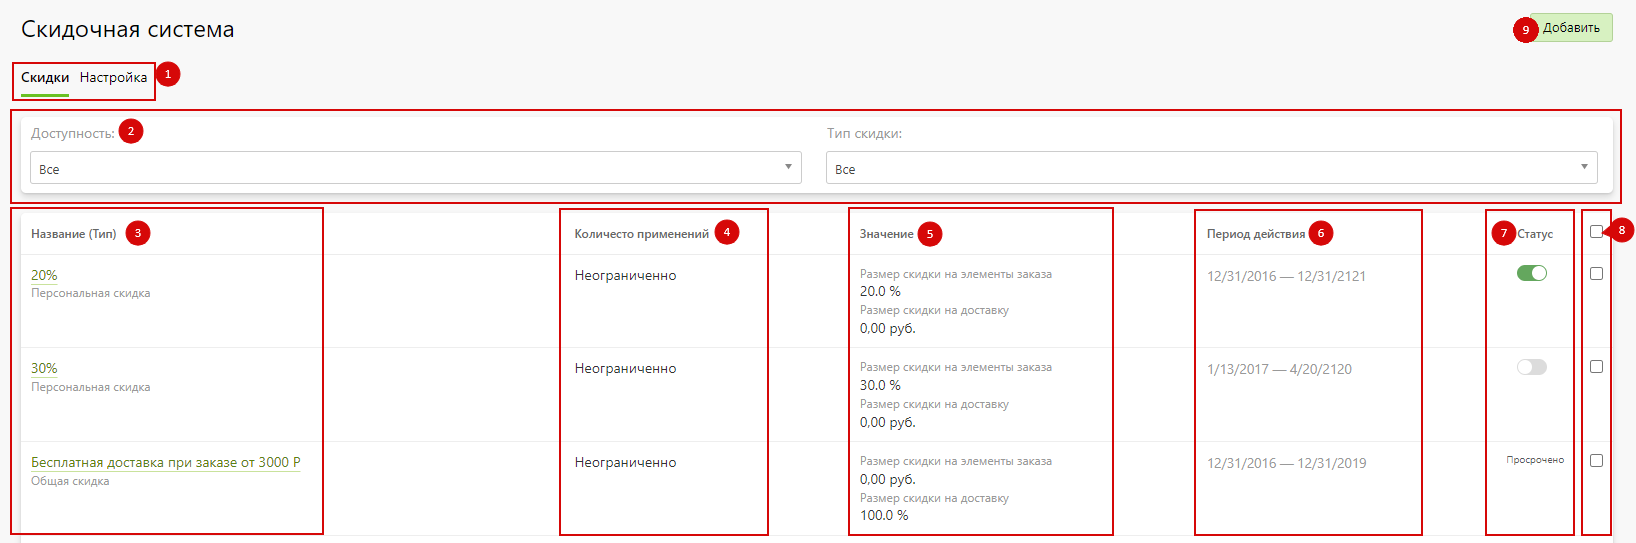
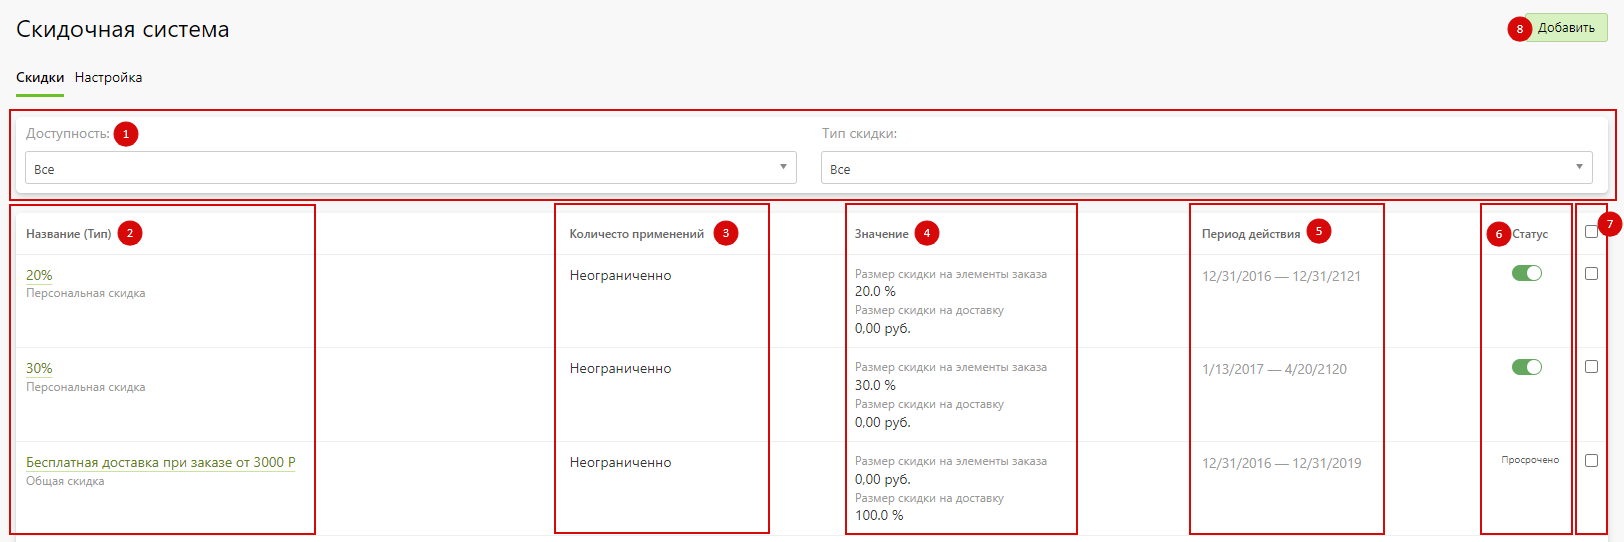
Скидки, убрал Навигацию

diff --git a/docs/marketing/discounts.md b/docs/marketing/discounts.md
@@ -1,41 +1,39 @@
 # Скидки
 ## Список скидок
 ![](../_media/marketing/marketing01.png ':size=70%')
-1. **Навигация**
-2. **Фильтр** - возможность фильтровать отображение скидок по Доступности (вкл/выкл) и по Типу скидки.
-3. **Название (Тип)**:
+1. **Фильтр** - возможность фильтровать отображение скидок по Доступности (вкл/выкл) и по Типу скидки.
+2. **Название (Тип)**:
     + **Общая скидка** - общая скидка применяется ко всем пользователям, если их заказ удовлетворяет условиям скидки.
     + **Скидка по купонам** - в карточке скидки создаются купоны, которые пользователи сайта могут использовать на странице Корзины для применения скидки.
     + **Персональная скидка** - есть возможность указать клиентов, для кого допустима данная скидка, а так же условия автоматического добавления клиентов.
-4. **Количество применений**:
+3. **Количество применений**:
     + Неограничено
     + Одноразово
     + N раз
     + Один раз на клиента
     + N раз на клиента
     + Только на первый заказ
-5. **Значение** - указывает размер скидки на элементы заказа и на доставку.
-6. **Период действия** - указывает дату начало и окончания скидки/акции.
-7. **Статус**:
+4. **Значение** - указывает размер скидки на элементы заказа и на доставку.
+5. **Период действия** - указывает дату начало и окончания скидки/акции.
+6. **Статус**:
     + Включено
     + Выключено
     + Просрочено
-8. **Выделение** - выделенные скидки можно дублировать либо удалить, кнопки в конце страницы.
-9. **Добавить** - кнопка для создания новой скидки. Тип скидки указывается при создании и позже изменить нельзя.
+7. **Выделение** - выделенные скидки можно дублировать либо удалить, кнопки в конце страницы.
+8. **Добавить** - кнопка для создания новой скидки. Тип скидки указывается при создании и позже изменить нельзя.
 
 ## Карточка скидки
 ### Основная информация
 ![](../_media/marketing/marketing02.png ':size=70%')
-1. **Навигация** - переключение между вкладками скидки. В персональной скидке добавляется вкладка "Клиенты", в скидке по купонам добавляется вкладка "Купоны".
-2. **Название на сайте** - указывает, как скидка будет отображаться на сайте. Поле не обязательное.
-3. **Переключение языков** - выбор языка для локализации названия на всех сайтах.
-4. **Название в панели управления** - рабочее название скидки, доступное только операторам админ-панели.
-5. **Количество применений** - выбор из выпадающего списка количества применений скидки. При выборе "*N раз*" или "*N раз на клиента*" появляется дополнительное окно для ввода количества применений.
-6. **Тип скидки** - указывается при создании скидки, на данной странице изменить нельзя.
-7. **Описание** - описание скидки.
-8. **Скидка доступна на сайте** - отображает статус скидки (вкл/выкл).
-9. **Допускать суммирование данной скидки с другими** - при включённом параметре скидка будет суммироваться с другими скидками, где так же включн данный параметр.
-10. **Использовать в качестве бонусной программы (класть значение скидки на личный счет)** - размер скидки будет не вычитаться из суммы заказа, а зачисляться на личный счёт клиента. Зачисляются бонусы в момент, когда заказ с этой скидкой перейдёт в статус "Выдан", а бонусы с личного счёта можно будет потратить в последующих заказах.
+1. **Название на сайте** - указывает, как скидка будет отображаться на сайте. Поле не обязательное.
+2. **Переключение языков** - выбор языка для локализации названия на всех сайтах.
+3. **Название в панели управления** - рабочее название скидки, доступное только операторам админ-панели.
+4. **Количество применений** - выбор из выпадающего списка количества применений скидки. При выборе "*N раз*" или "*N раз на клиента*" появляется дополнительное окно для ввода количества применений.
+5. **Тип скидки** - указывается при создании скидки, на данной странице изменить нельзя.
+6. **Описание** - описание скидки.
+7. **Скидка доступна на сайте** - отображает статус скидки (вкл/выкл).
+8. **Допускать суммирование данной скидки с другими** - при включённом параметре скидка будет суммироваться с другими скидками, где так же включн данный параметр.
+9. **Использовать в качестве бонусной программы (класть значение скидки на личный счет)** - размер скидки будет не вычитаться из суммы заказа, а зачисляться на личный счёт клиента. Зачисляются бонусы в момент, когда заказ с этой скидкой перейдёт в статус "Выдан", а бонусы с личного счёта можно будет потратить в последующих заказах.
 
 ### Ограничения
 ![](../_media/marketing/marketing03.png ':size=70%')
